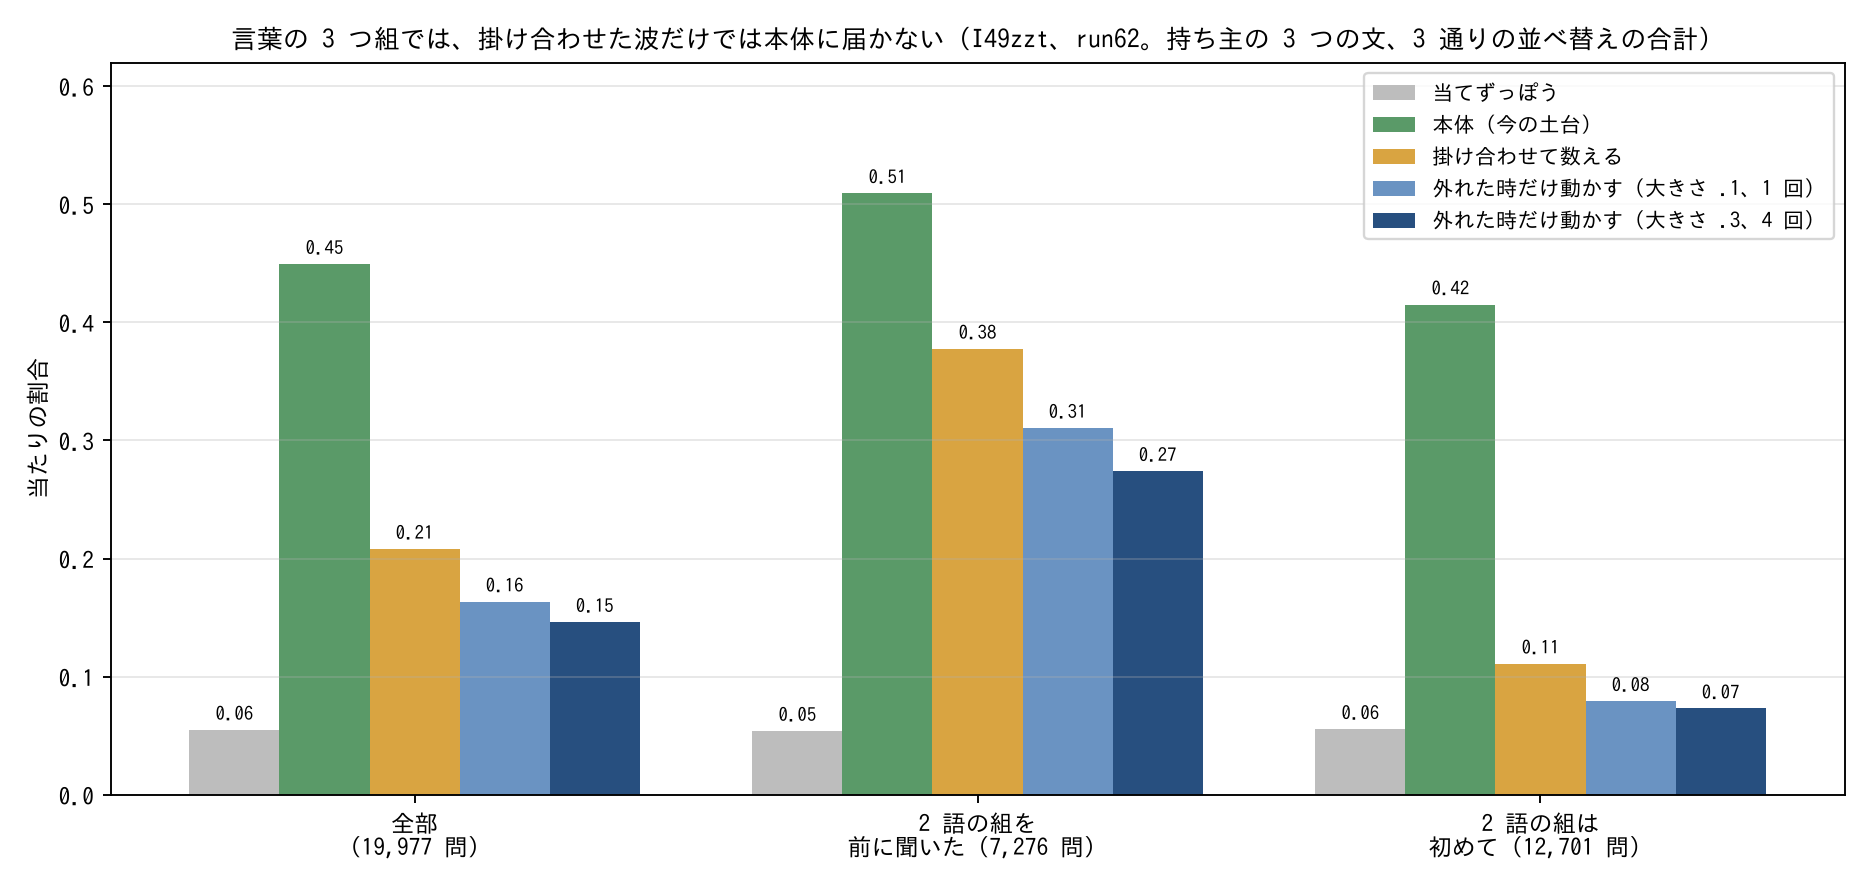
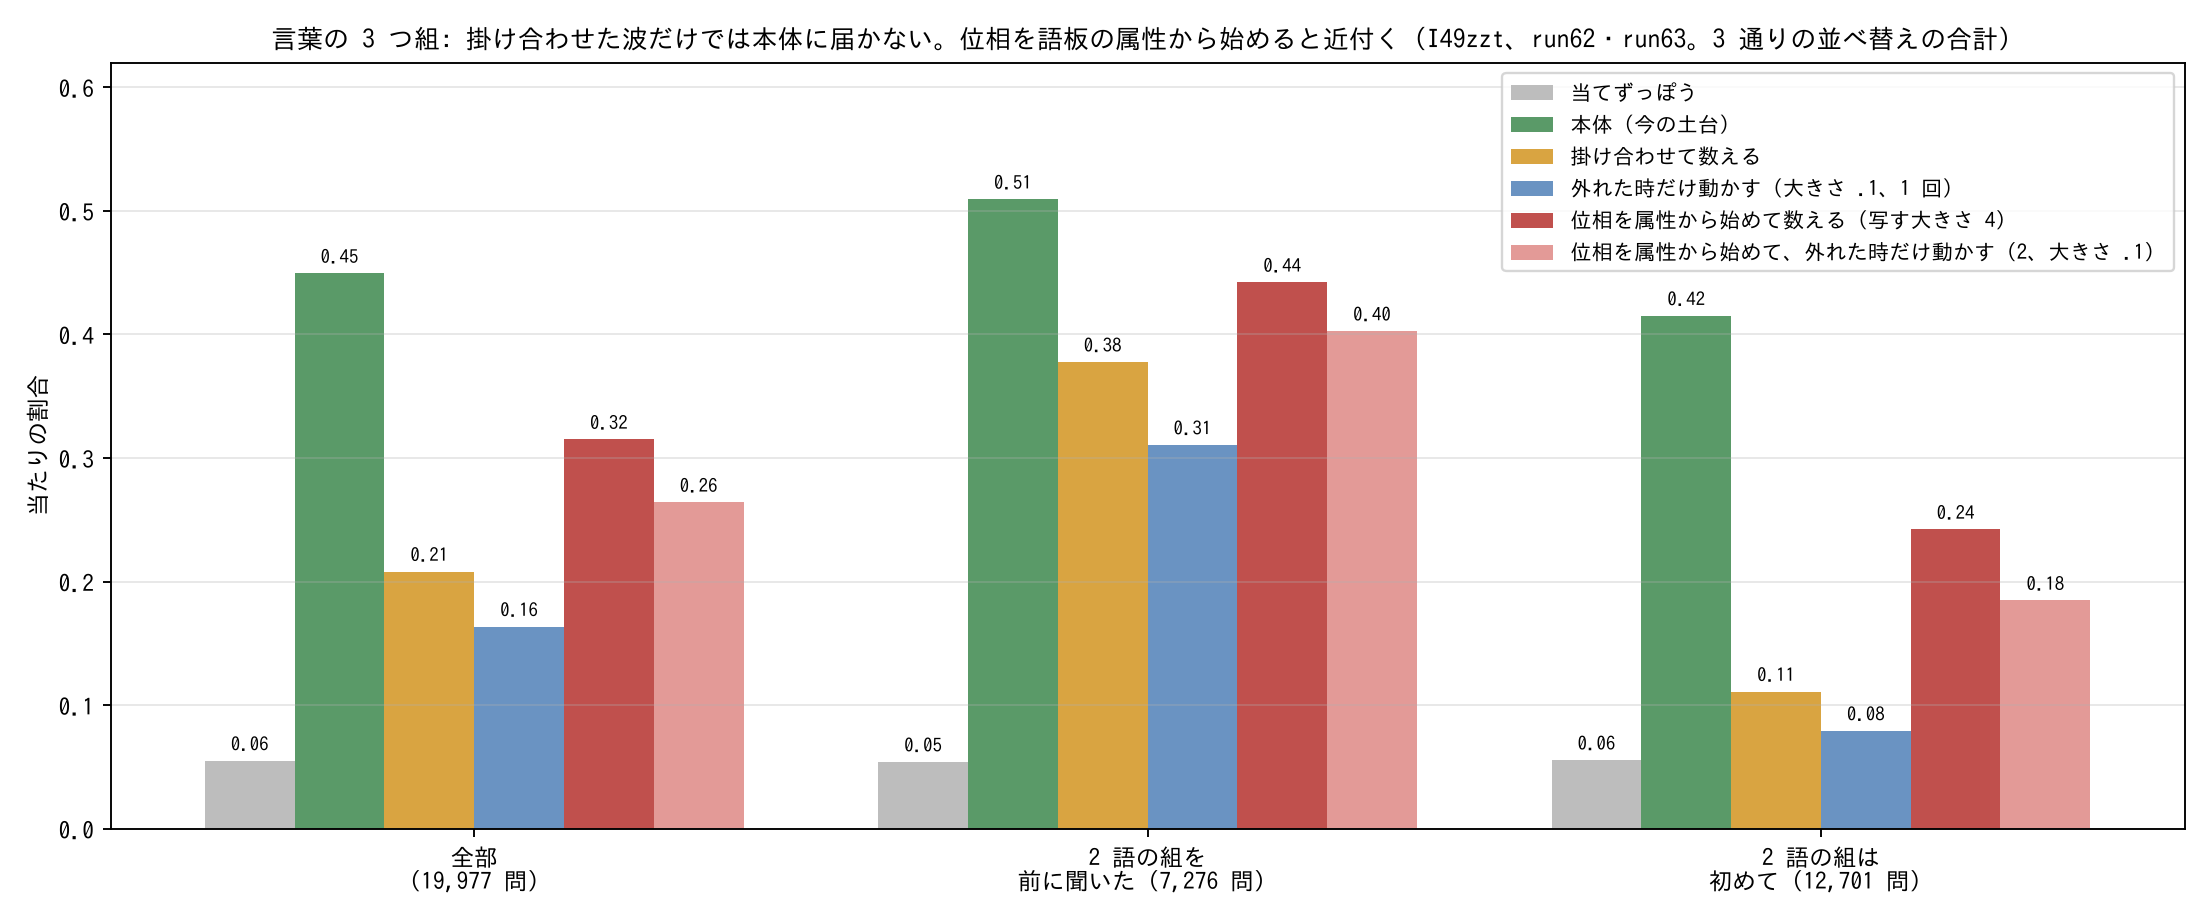
I49zzt: 位相を語板の属性から始めた結果を記録する（71 節の続き、図）
Claude-Session: https://claude.ai/code/session_014ak5wfaaDLiGgzRytpjmEr

diff --git a/docs/experiments_index.md b/docs/experiments_index.md
@@ -163,7 +163,7 @@
 | 書き替えで中身を守る（I49zzr の続き。替えてよい終わりを、手前の並びの種類の数で決める） | 中身の語ごと替わる壊れ方が減る | 当たり。中身の字が消える行が .25 → .09（下限 5）→ .03〜.06（下限 20）。3 つの材料で同じ。状況波との合い方は 7 割に下がる | 打ち消しは守れない（.22 → .18〜.20）。下限は割合で置く方が良さそう（[i49_inner_vessel.md](i49_inner_vessel.md) 68 節） |
 | 掛け合わせた波と、外れた時だけ位相を動かす（I49zzs） | 2 つの語の位相を足した波を鍵にして 3 つ組を持つ。外れた時だけ位相を少し動かす | 輪の足し算: 2 つずつの数え .10、掛け合わせて数える 1.00。見ていない組は、数えるだけ .05、外れた時だけ動かす（同じ表）.96〜1.00。でたらめの世界では当てずっぽう | 言葉の 3 つ組では未試験。席ごとに語が違うと、見ていない組には効かない（[i49_inner_vessel.md](i49_inner_vessel.md) 69 節） |
 | 席ごとに語が違う世界で、外れた時だけ位相を動かす（I49zzs の続き、run61） | 語に類が有る「誰が・何を・どうする」の小さい世界。表は席ごと | 聞いていない組: 数えるだけは当てずっぽう、外れた時だけ動かすと 2 割を隠して .94〜.99、5 割で .74〜.92。8 割では届かない | 本当の言葉の 3 つ組では未試験（[i49_inner_vessel.md](i49_inner_vessel.md) 69 節の続き） |
-| 言葉の 3 つ組で、掛け合わせた波を本体と比べる（I49zzt、run62） | 語が増えていく形の部品（数える／外れた時だけ動かす）を、本体と同じ問いで比べる | 外れ。本体 .45、数える .21、外れた時だけ動かす .15。聞いていない組では当てずっぽうに近い | 位相を語板の属性から始める形は未試験（[i49_inner_vessel.md](i49_inner_vessel.md) 71 節） |
+| 言葉の 3 つ組で、掛け合わせた波を本体と比べる（I49zzt、run62） | 語が増えていく形の部品（数える／外れた時だけ動かす）を、本体と同じ問いで比べる | 外れ。本体 .45、数える .21、外れた時だけ動かす .15。聞いていない組では当てずっぽうに近い | 位相を語板の属性から始めると .21 → .32（聞いていない組 .11 → .24。run63）。本体との組み合わせは未試験（[i49_inner_vessel.md](i49_inner_vessel.md) 71 節） |
 | 器で選び直した時の損はオウム返しか（I49zzg の続き、run60） | 選び直した先が、この話でもう聞いた語だった時を別に数える | 当たり。損は聞いた語を選んだ時に片寄る（幅 0.05 で 100 / 169。聞いていない語なら 112 / 86） | 器を候補と直に比べず、速い波と遅い波のずれで探す広さを決める案（未試験。[i49_inner_vessel.md](i49_inner_vessel.md) 54 節の続き） |
 | 聞いた回数の多い語が勝っている、という疑い（I49y） | — | 外れ。1 位の方が多く聞いた語だったのは 44% | 1 位を取るのは、正解に属性が似た別の語 |
 | 席の数を決めない表（I49zq の FrameTable、I49zr） | 3 つ組の表を、席が増えても使える形に作り直す | 三つの席だけの行で今までの表より下（.303 対 .360、z −22 前後） | 「同じ語が m 個」でまとめ、どの席が同じだったかを区別していない。席ごとに分けて数える形に直す（足した席そのものは効く。2 節を見る） |
